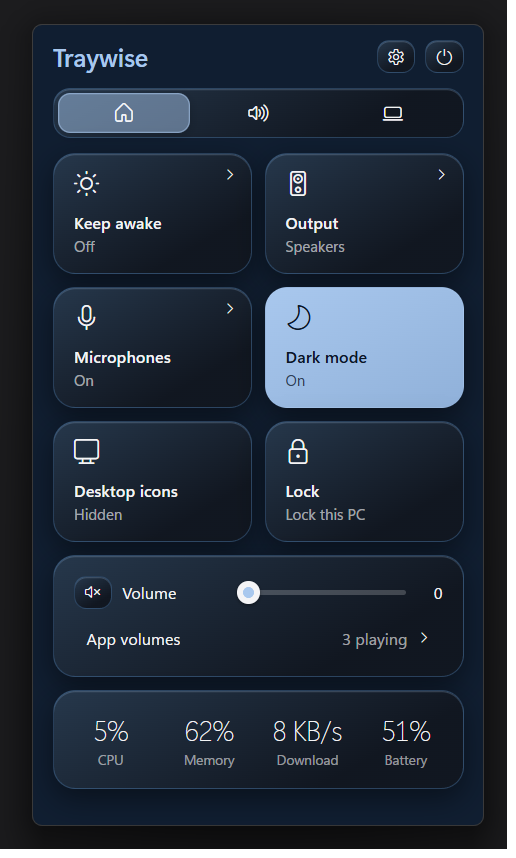
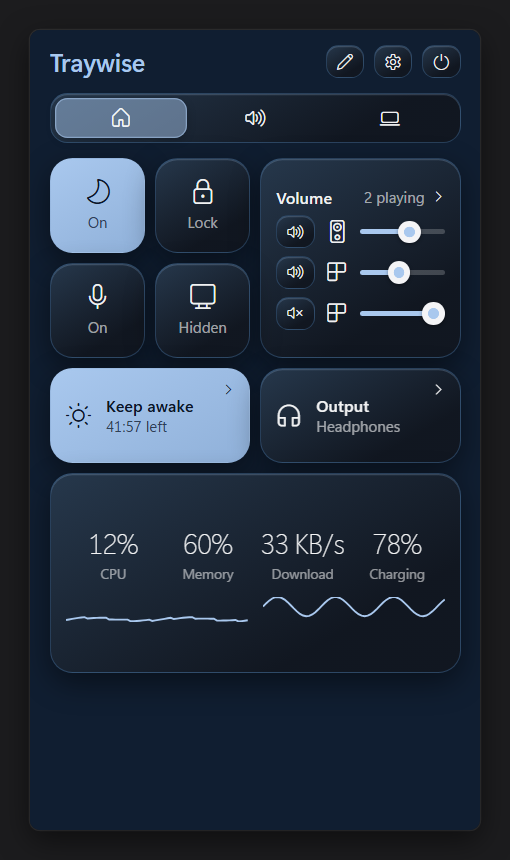
Docs: the Dot look in the README (new screenshots), CHANGELOG and CLAUDE.md

Changed region(s): [[0.0, 0.0, 1.0, 1.0], [0.1176, 0.7879, 0.8529, 0.9091]]

diff --git a/CLAUDE.md b/CLAUDE.md
@@ -45,7 +45,8 @@ Module rules:
 
 Measured numbers from the spike, release build: about 65 ms to open, 0.2% of a CPU core while hidden, about 140–150 MB of RAM (working set) once hidden for a minute or more. The spike's old "76 MB" was an early reading taken ~30 s after hiding, not the steady state. Keep open time and CPU there; the RAM target is paused for now (WebView2 browser flags cut it to ~125–130 MB, not adopted yet).
 
-- **Two looks, picked at first run and in Settings** (`look-liquid` / `look-windows` on `.panel`, styles in `src/shell/liquid.css`):
+- **Three looks, picked at first run and in Settings** (`look-dot` / `look-liquid` / `look-windows` on `.panel`, styles in `src/shell/liquid.css`, Dot's overrides in `src/shell/dot.css`):
+  - **Dot** (default): built from `docs/design-system.md`'s tokens (`--tw-*`). Monochrome, one accent preset, bundled Doto (OFL) for numbers and the wordmark only, dot-grid or plain background, follows Windows light/dark. Blur only on floating layers (the Add tiles tray).
   - **Liquid:** cards tinted in a colour preset (Ocean, Graphite, Forest, Plum, Ember, Rose; one muted hue each, never bright; the owner rejected the multicolour Dusk preset) with a thin edge of the same hue; the tab bar, icon buttons and titles use the preset too. Two Settings choices the owner hasn't settled yet: **Background** Tinted (a deep shade of the preset) or Transparent (`.clear`: cards float over the desktop; the title row gets its own card), and **Tiles** Shaded (lighter top left, fading darker) or Single hue (`.flat`). No blobs, no white specular highlight, no `backdrop-filter`: the owner found blobs-behind-glass random and "vibe-coded". The look's classes are on `.panel` and on `html` (so the scrollbar's strip matches).
   - **Windows:** flat like Windows 11's flyouts, follows Windows light/dark mode, Windows' default blue. Text and light fills use `rgb(var(--ink) / a)`, so light mode only flips `--ink`.
 - **The panel has a fixed height (640 logical px)**; pages that don't fit scroll. The owner found a window that resized to each page's content jarring.

diff --git a/README.md b/README.md
@@ -3,12 +3,14 @@
 One tray icon, one panel, and a handful of small Windows 11 tools you can switch on or off.
 
 <p align="center">
-  <img src="docs/screenshot-liquid.png" width="300" alt="The Traywise panel in the Liquid look: tiles tinted in a colour preset">
-  <img src="docs/screenshot-windows.png" width="300" alt="The Traywise panel in the Windows look: flat, like Windows 11's own flyouts">
+  <img src="docs/screenshot-dot.png" width="250" alt="The Traywise panel in the Dot look: monochrome tiles over a dot grid, with dot-matrix numbers and a red accent">
+  <img src="docs/screenshot-liquid.png" width="250" alt="The Traywise panel in the Liquid look: tiles tinted in a colour preset">
+  <img src="docs/screenshot-windows.png" width="250" alt="The Traywise panel in the Windows look: flat, like Windows 11's own flyouts">
 </p>
 
 Pick a look when you first start it, and change it any time in Settings:
 
+- **Dot** (the default): monochrome tiles over a dot grid, dot-matrix numbers and one accent colour (red, amber, violet, blue or green), following Windows' light or dark mode.
 - **Liquid**: tiles tinted in one of six colours, on a tinted background or floating over your desktop.
 - **Windows**: flat, like Windows 11's own flyouts, following Windows' light or dark mode.
 

diff --git a/CHANGELOG.md b/CHANGELOG.md
@@ -2,6 +2,8 @@
 
 ## Unreleased
 
+- **A new look, Dot, now the default.** Monochrome tiles over a dot grid, numbers in a dot-matrix font, and one accent colour. Switched-on tiles turn into a solid plate with a small accent dot. It follows Windows' light or dark mode. Settings → Look has its Accent (Red, Amber, Violet, Blue, Green) and Background (Dots or Plain). Liquid and Windows are still there.
+- **Add tiles is a tray over the board** in every look, with a size picker: pick 1×1 up to 4×2, then add tiles at that size.
 - **A customisable home board.** Home is now a grid of tiles you arrange yourself:
   - Each module offers tiles in several sizes (1×1, 2×1, 4×1, 2×2, 4×2), and bigger ones do more. For example, the mixer goes from a mute button up to the master volume plus three apps, and Keep awake's 4×2 has its modes and timer.
   - Edit with the pencil button, or hold a tile. Drag tiles (or move them with the arrow keys), change their size, remove them, or add more. Reset goes back to the default board.

diff --git a/docs/design-system.md b/docs/design-system.md
@@ -3,7 +3,7 @@
 The source of truth is the **Design System** page of the Figma file:
 https://www.figma.com/design/grZMZ3PYBcb1Z8PTlibcxn/TrayWise?node-id=11-359
 
-This document lists every token with its value, so the app can adopt them later. Nothing in `src/` uses these yet.
+This document lists every token with its value. The app's **Dot** look (`src/shell/dot.css`) is built from them.
 
 ## Direction
 
